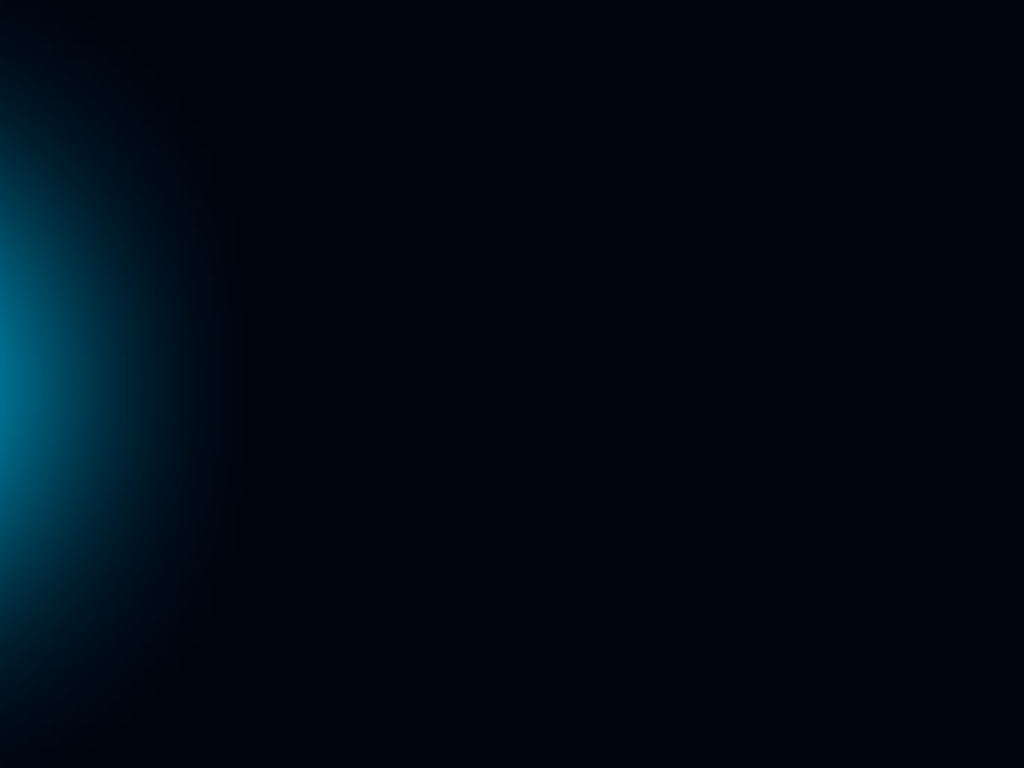
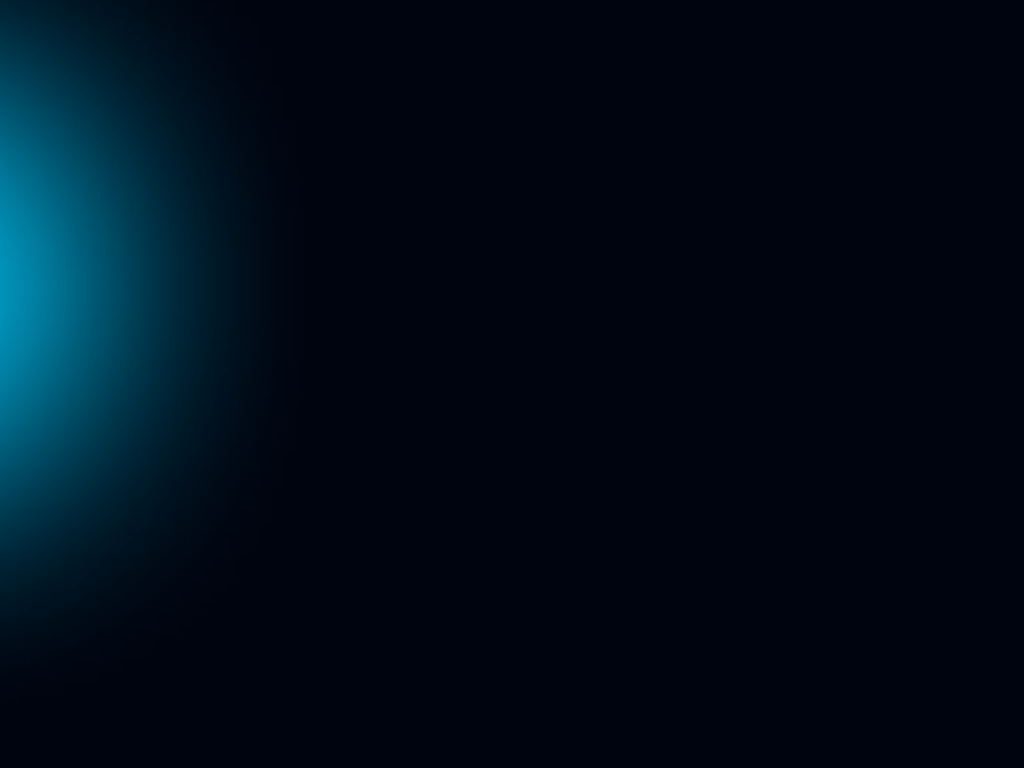
bg

Changed region(s): [[0.0, 0.0, 0.2188, 0.5312], [0.0, 0.6562, 0.0312, 0.8125]]

diff --git a/src/components/Hero.js b/src/components/Hero.js
@@ -7,7 +7,7 @@ const Hero = () => {
       id="home"
       className="flex flex-col items-center justify-center h-screen bg-gradient-to-b"
       style={{
-        backgroundImage: `url('/assets/bg1.jpg')`,
+        backgroundImage: `url('/assets/bg1.png')`,
         backgroundSize: 'cover',
         backgroundPosition: 'center',
       }}
